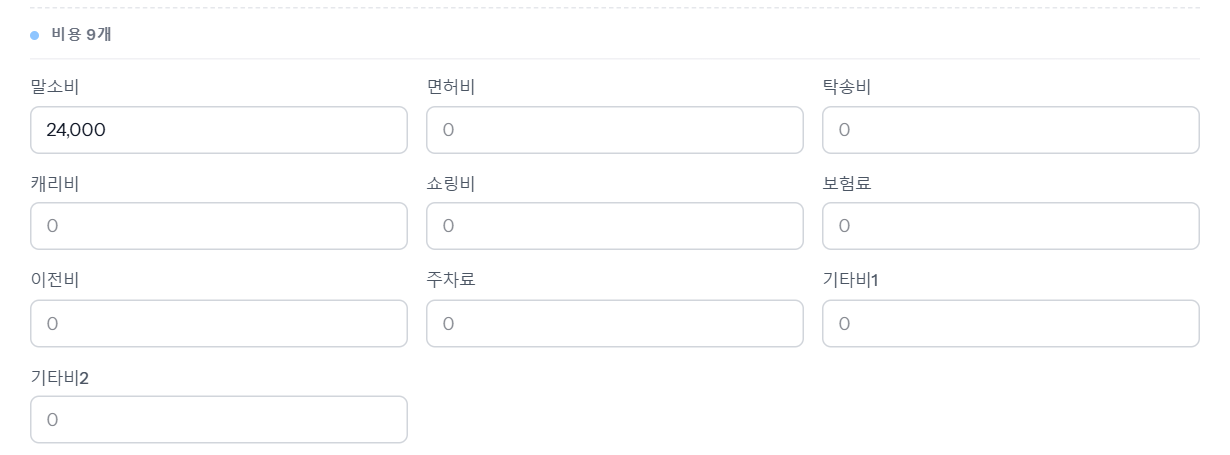
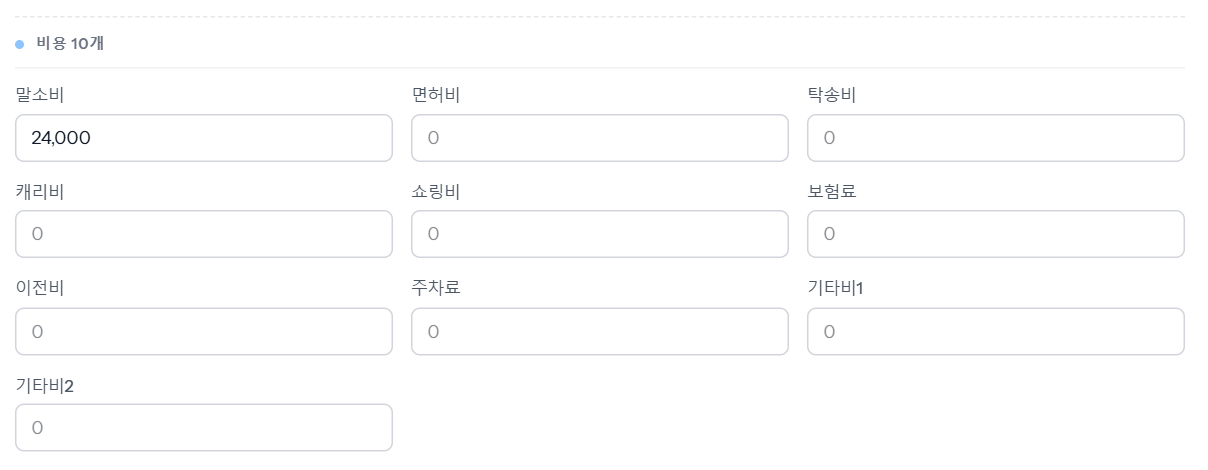
fix: 판매 잔금 비고 덮임 · 패널 금액칸 콤마 늦음 · 「비용 9개」 머리글 (씬 워크스루 발견)
- 잔금을 만들면 거꾸로 미러된 회수 줄이 잔금으로 되쓰며 비고를 「회수: 판매 잔금 자동 미러링」으로 덮었다.
  막 생긴 미러 줄은 되쓰지 않고, 비고는 채권관리에서 회수 줄 비고를 고쳤을 때만 넘긴다 (FinalPaymentNoteKeptTest).
- 패널(섬)을 열면 금액칸이 새로 생겨 morph.updated 가 안 떠 다음 왕복까지 콤마가 없었다 → morphed·island.morphed 뒤 포맷.
- 매입 탭 비용 머리글을 칸 수(10)로. 정산 안내·카드 문구·가이드 그림 09.png 함께.

diff --git a/resources/js/app.js b/resources/js/app.js
@@ -337,7 +337,10 @@ document.addEventListener('input', (e) => {
 });
 
 function formatAllMoney() {
-    document.querySelectorAll('input[data-money]').forEach(applyMoneyFormat);
+    // 치는 중인 칸은 input 핸들러가 이미 맞춘다 — 여기서 값을 바꾸면 커서가 끝으로 튄다.
+    document.querySelectorAll('input[data-money]').forEach((el) => {
+        if (el !== document.activeElement) applyMoneyFormat(el);
+    });
 }
 document.addEventListener('DOMContentLoaded', formatAllMoney);
 document.addEventListener('livewire:navigated', formatAllMoney);
@@ -345,6 +348,12 @@ if (window.Livewire) {
     window.Livewire.hook('morph.updated', ({ el }) => {
         if (el && el.matches && el.matches('input[data-money]')) applyMoneyFormat(el);
     });
+    // 🐞 패널을 열면 금액칸이 「새로 생긴」 칸이라 morph.updated 가 안 뜨고, 값은 그 뒤 wire:model 이 넣는다
+    //    → 콤마 없이 보이다가 다음 왕복(하트비트 등, 약 3초 뒤)에야 붙었다(jin 2026-11-14 씬 워크스루).
+    //    패널은 섬(@island)이라 전체 morphed 와 island.morphed 둘 다 받는다. rAF = Alpine 이 값을 넣은 뒤.
+    const formatAfterMorph = () => requestAnimationFrame(formatAllMoney);
+    window.Livewire.hook('morphed', formatAfterMorph);
+    window.Livewire.hook('island.morphed', formatAfterMorph);
 }
 
 // ──────────────────────────────────────────────────────────────────────────

diff --git a/tests/Feature/FinalPaymentNoteKeptTest.php b/tests/Feature/FinalPaymentNoteKeptTest.php
@@ -1,0 +1,97 @@
+<?php
+
+namespace Tests\Feature;
+
+use App\Models\Buyer;
+use App\Models\FinalPayment;
+use App\Models\ReceivableHistory;
+use App\Models\Vehicle;
+use Illuminate\Foundation\Testing\RefreshDatabase;
+use Tests\TestCase;
+
+/**
+ * 판매 잔금 비고가 「회수: 판매 잔금 자동 미러링」으로 덮이던 문제 (jin 2026-11-14, 씬 워크스루 중 발견).
+ *
+ * 잔금 줄을 만들면 회수 줄이 거꾸로 미러되고(FinalPayment::created), 그 회수 줄의 saved 훅이
+ * 잔금으로 다시 미러하며 비고를 「회수: 판매 잔금 자동 미러링」으로 썼다 — 실무자가 적은 비고가
+ * 저장 직후 사라졌다(3사 10월 이후 1,409줄).
+ */
+class FinalPaymentNoteKeptTest extends TestCase
+{
+    use RefreshDatabase;
+
+    private function vehicle(): Vehicle
+    {
+        return Vehicle::create([
+            'vehicle_number' => 'NOTE'.random_int(1000, 9999),
+            'sales_channel' => 'export',
+            'currency' => 'USD',
+            'exchange_rate' => 1400,
+            'sale_price' => 9000,
+            'sale_date' => '2026-11-13',
+            'buyer_id' => Buyer::create(['name' => 'B'.random_int(1000, 9999), 'is_active' => true])->id,
+        ]);
+    }
+
+    public function test_note_typed_on_a_final_payment_survives_the_mirror(): void
+    {
+        $v = $this->vehicle();
+        $fp = FinalPayment::create([
+            'vehicle_id' => $v->id, 'type' => 'balance', 'amount' => 3000,
+            'payment_date' => '2026-11-13', 'note' => '1차 송금분',
+        ]);
+
+        $this->assertSame('1차 송금분', $fp->fresh()->note);
+        $this->assertSame(1, ReceivableHistory::where('final_payment_id', $fp->id)->count(), '회수 줄 미러는 그대로 생긴다');
+    }
+
+    public function test_editing_amount_in_receivables_keeps_the_payment_note(): void
+    {
+        $v = $this->vehicle();
+        $fp = FinalPayment::create([
+            'vehicle_id' => $v->id, 'type' => 'balance', 'amount' => 3000,
+            'payment_date' => '2026-11-13', 'note' => '1차 송금분',
+        ]);
+
+        $h = ReceivableHistory::where('final_payment_id', $fp->id)->firstOrFail();
+        $h->update(['amount' => 3100]);
+
+        $fresh = $fp->fresh();
+        $this->assertEquals(3100, (float) $fresh->amount, '금액은 종전대로 잔금으로 넘어간다');
+        $this->assertSame('1차 송금분', $fresh->note, '금액만 고쳤으면 비고는 그대로');
+    }
+
+    public function test_editing_the_note_in_receivables_still_flows_to_the_payment(): void
+    {
+        $v = $this->vehicle();
+        $fp = FinalPayment::create([
+            'vehicle_id' => $v->id, 'type' => 'balance', 'amount' => 3000, 'payment_date' => '2026-11-13',
+        ]);
+
+        ReceivableHistory::where('final_payment_id', $fp->id)->firstOrFail()->update(['note' => '바이어 확인']);
+
+        $this->assertSame('회수: 바이어 확인', $fp->fresh()->note);
+    }
+
+    public function test_editing_a_just_created_deposit_in_the_same_request_still_flows(): void
+    {
+        $v = $this->vehicle();
+        $h = ReceivableHistory::create([
+            'vehicle_id' => $v->id, 'method' => 'deposit', 'amount' => 500, 'collected_at' => '2026-11-13',
+        ]);
+        $h->update(['amount' => 700]);   // 같은 인스턴스 — wasRecentlyCreated 가 아직 true
+
+        $this->assertEquals(700, (float) FinalPayment::findOrFail($h->final_payment_id)->amount);
+    }
+
+    public function test_deposit_created_in_receivables_still_creates_the_payment_with_note(): void
+    {
+        $v = $this->vehicle();
+        $h = ReceivableHistory::create([
+            'vehicle_id' => $v->id, 'method' => 'deposit', 'amount' => 500,
+            'collected_at' => '2026-11-13', 'note' => '현장 수금',
+        ]);
+
+        $this->assertSame('회수: 현장 수금', FinalPayment::findOrFail($h->fresh()->final_payment_id)->note);
+    }
+}

diff --git a/app/Models/ReceivableHistory.php b/app/Models/ReceivableHistory.php
@@ -185,11 +185,22 @@ class ReceivableHistory extends Model
     public function syncFinalPayment(): void
     {
         if ($this->method === 'deposit') {
+            // 🧾 판매 잔금이 먼저 생겨 거꾸로 미러된 회수 줄(FinalPayment::created) — 금액·날짜는 이미 같고,
+            //    여기서 다시 쓰면 실무자가 적은 잔금 비고가 「회수: 판매 잔금 자동 미러링」으로 덮인다(jin 2026-11-14).
+            //    getChanges() 가 비어 있음 = 이번 저장이 insert — 같은 요청에서 그 줄을 이어서 고치면 종전대로 넘긴다.
+            if ($this->wasRecentlyCreated && $this->final_payment_id && $this->getChanges() === []) {
+                return;
+            }
+
             $payload = [
                 'amount' => $this->amount,
                 'payment_date' => $this->collected_at,
-                'note' => '회수: '.($this->note ?? ''),
             ];
+            // 비고는 채권관리에서 회수 줄을 새로 만들거나 비고를 고쳤을 때만 잔금으로 넘긴다 —
+            //   금액·날짜만 고쳐도 비고까지 다시 쓰면 잔금에 적힌 비고가 매번 덮인다.
+            if (! $this->final_payment_id || $this->wasChanged('note')) {
+                $payload['note'] = '회수: '.($this->note ?? '');
+            }
             // 환율 편집 반영 (Phase 3, 2026-07-13) — 환율이 명시된 경우에만 미러링.
             //   ⚠ null 을 항상 넣으면 역방향 미러(FinalPayment::created→RH)가 FP 기존 환율을 null 로 덮어씀.
             //   raw update 라 FinalPayment::saving 훅 미발동 → amount_krw 를 훅과 동일 공식으로 직접 계산.

diff --git a/tests/Feature/MoneyInputSignTest.php b/tests/Feature/MoneyInputSignTest.php
@@ -28,6 +28,20 @@ class MoneyInputSignTest extends TestCase
             '금액칸에 keydown 가로채기가 다시 생겼습니다 — `-` 를 막아 음수 입력이 안 됩니다.');
     }
 
+    /**
+     * 패널을 열면 금액칸이 새로 생겨 morph.updated 가 안 뜬다 — 값은 그 뒤 wire:model 이 넣는다.
+     * 그래서 콤마 없이 몇 초 보이다가 다음 왕복에 붙었다(jin 2026-11-14). 패널은 섬이라 island.morphed 도 받는다.
+     * ⚠ 정적 검사다 — 실제 재현은 브라우저(재무 계정 · 저장 뒤 다시 열기: 잔금·판매가·운임비·면장 6칸이 6초 넘게 콤마 없음).
+     */
+    public function test_money_inputs_are_formatted_after_every_morph(): void
+    {
+        $js = $this->appJs();
+
+        $this->assertMatchesRegularExpression("/hook\('morphed',\s*formatAfterMorph\)/", $js);
+        $this->assertMatchesRegularExpression("/hook\('island\.morphed',\s*formatAfterMorph\)/", $js,
+            '차량 패널은 섬(@island)이라 이 훅이 없으면 패널을 열 때 금액칸에 콤마가 안 붙습니다.');
+    }
+
     public function test_only_signed_inputs_keep_the_minus(): void
     {
         $js = $this->appJs();

diff --git a/tests/Feature/LocaleTest.php b/tests/Feature/LocaleTest.php
@@ -349,7 +349,7 @@ class LocaleTest extends TestCase
             ->call('openCreate')
             ->assertSee('NICE Registration')        // 기본정보 탭 섹션 (2026-10-02 칸 교체로 「(12)」 표기 제거)
             ->assertSee('Export')                    // 패널 탭 네비 (2026-10-20 선적+수출통관 → 「수출」 합본)
-            ->assertSee('9 Cost Items')              // 매입 탭 섹션
+            ->assertSee('10 Cost Items')              // 매입 탭 섹션
             ->assertSee('Seller Account (remittance target)')
             ->assertSee('Payment Status')            // 판매 탭 섹션
             ->assertSee('Sale Basics')
@@ -358,7 +358,7 @@ class LocaleTest extends TestCase
             ->assertSee('Power of Attorney')
             ->assertSee('Create')                    // 저장바(신규)
             ->assertDontSee('NICE 등록정보')
-            ->assertDontSee('비용 9개')
+            ->assertDontSee('비용 10개')
             ->assertDontSee('입금 현황')
             ->assertDontSee('우체국 EMS')
             ->assertDontSee('위임장');

diff --git a/lang/ko/settlement.php b/lang/ko/settlement.php
@@ -358,7 +358,7 @@ return [
     'extra_cost_title' => '📋 기타비용 (말소·면허·탁송·보험·이전비 등) 실측 정정',
     'extra_body_1' => '2차 대기 중에는 ',
     'extra_strong_1' => '차량 편집 패널 → 매입 탭',
-    'extra_body_2' => '에서 기타비용 9개 수정 가능합니다. 수정 후 저장 시 ',
+    'extra_body_2' => '에서 비용 10개(말소·면허·탁송·캐리·쇼링·보험·이전·주차·기타1·2)를 수정할 수 있습니다. 수정 후 저장 시 ',
     'extra_strong_2' => '총마진·정산액·실지급액이 자동 재계산',
     'extra_body_3' => '됩니다.',
     'btn_vehicle_edit' => '→ 차량 편집으로 이동',

diff --git a/tests/Feature/VehicleExportAuditSheetsTest.php b/tests/Feature/VehicleExportAuditSheetsTest.php
@@ -143,8 +143,7 @@ class VehicleExportAuditSheetsTest extends TestCase
     /**
      * 수식 주입 방어 — 상세 시트도 차량 시트와 같은 규칙(`writeCell`)을 쓴다.
      *
-     * ⚠ 회수이력 비고로 검사한다 — 잔금(balance) 비고는 `ReceivableHistory` 미러가 되받아써서
-     *    (「회수: …」) 사람이 적은 값이 남지 않는다. 기존 동작이라 여기서 손대지 않는다.
+     * 회수이력 비고로 검사한다(잔금 비고가 덮이던 것은 2026-11-14 에 고쳤다 — `FinalPaymentNoteKeptTest`).
      */
     public function test_detail_sheets_do_not_execute_formulas_from_notes(): void
     {

diff --git a/resources/views/livewire/erp/vehicles/index.blade.php b/resources/views/livewire/erp/vehicles/index.blade.php
@@ -10011,7 +10011,7 @@ function vehicleColumnsToggle(columns, serverKnows) {
             <hr class="section-divider">
             <div class="section-header">
                 <span class="section-dot bg-blue-300"></span>
-                <span class="section-title">{{ __('vehicle.panel.sec.costs') }}</span>
+                <span class="section-title">{{ __('vehicle.panel.sec.costs', ['n' => count(\App\Models\Vehicle::DISPLAY_COST_FIELDS)]) }}</span>
             </div>
 
             {{-- 회의확장씬 #9 보강 안내 (2026-05-23) — 2차 정산 대기 동안 실측 정정 가이드 --}}

diff --git a/lang/ko/vehicle.php b/lang/ko/vehicle.php
@@ -401,7 +401,7 @@ return [
             'purchase_basic' => '매입 기본',
             'purchase_account' => '매입처 계좌 정보 (송금 대상)',
             'fee_account' => '매도비 계좌 정보 (별도 송금 대상)',
-            'costs' => '비용 9개',
+            'costs' => '비용 :n개',
             'purchase_payment' => '매입 지급',
             'sale_basic' => '판매 기본',
             'payment_status' => '입금 현황',

diff --git a/lang/en/vehicle.php b/lang/en/vehicle.php
@@ -389,7 +389,7 @@ return [
             'purchase_basic' => 'Purchase Basics',
             'purchase_account' => 'Seller Account (remittance target)',
             'fee_account' => 'Selling-Fee Account (separate target)',
-            'costs' => '9 Cost Items',
+            'costs' => ':n Cost Items',
             'purchase_payment' => 'Purchase Payment',
             'sale_basic' => 'Sale Basics',
             'payment_status' => 'Payment Status',
